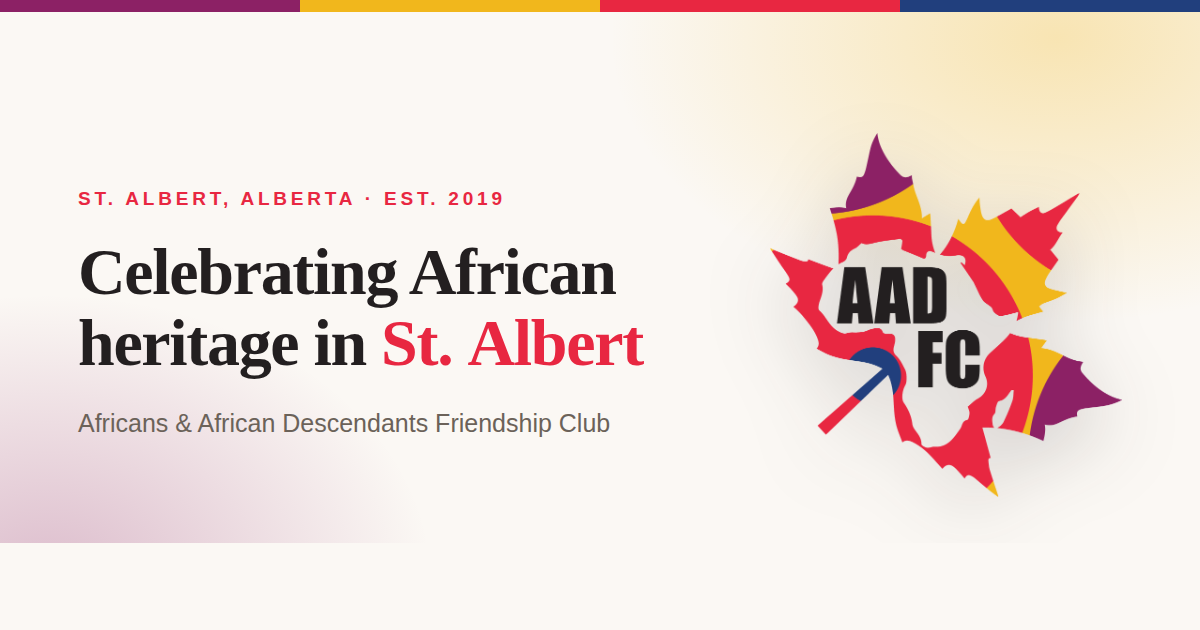
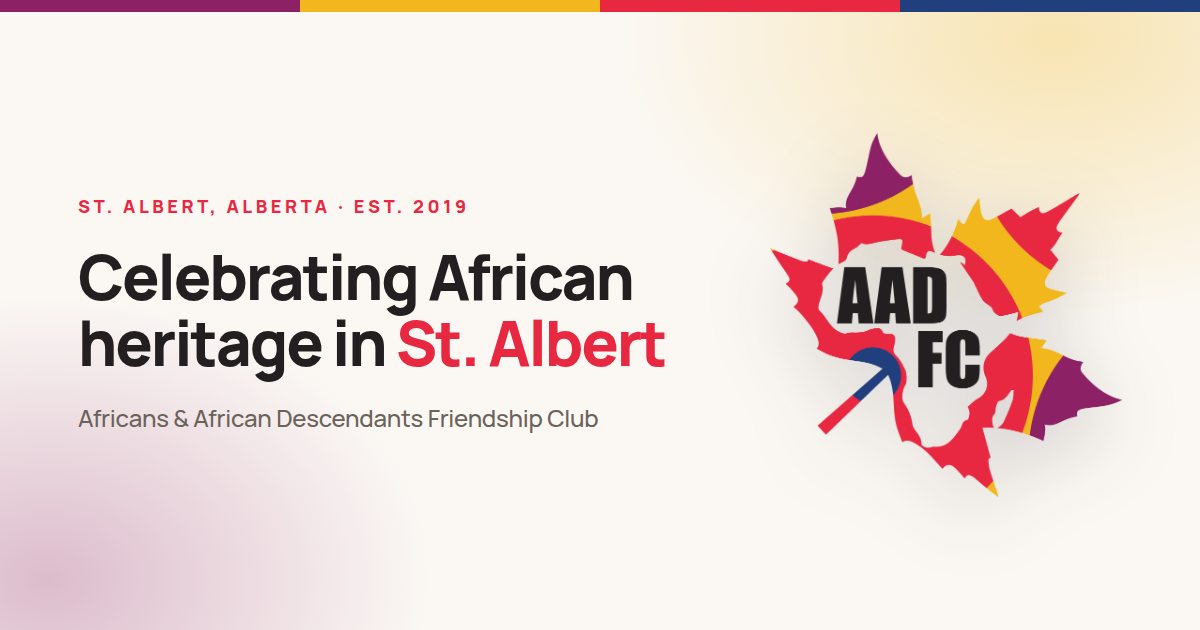
Switch typography to Manrope
Replaces the Fraunces/Inter pairing with Manrope as a single variable family
(weights 200-800), loaded from Google Fonts.

With one family carrying the whole site, hierarchy moves into weight and
tracking: headings at 800 / -0.032em, smaller headings at 700 / -0.018em,
body at 400, labels at 700 uppercase. Display numerals, the wordmark, event
dates and the pull quote all step up to 800 to hold their weight against the
body text.

Two things needed retuning for Manrope's metrics: the hero highlight band,
which sat below the baseline and read as a detached underline, and the pull
quote's opening quotation mark, which was sized for a serif.

Regenerates the social card with the real font. Headings also pick up
text-wrap: balance.

Claude-Session: https://claude.ai/code/session_014VnNz6GpzJ38GCX5f3sFy1

diff --git a/css/style.css b/css/style.css
@@ -25,8 +25,8 @@
   --muted-2:    #8A8078;
 
   /* Type */
-  --font-display: "Fraunces", "Iowan Old Style", Georgia, serif;
-  --font-body: "Inter", -apple-system, BlinkMacSystemFont, "Segoe UI", Roboto, sans-serif;
+  --font-display: "Manrope", ui-sans-serif, system-ui, -apple-system, "Segoe UI", Roboto, sans-serif;
+  --font-body: "Manrope", ui-sans-serif, system-ui, -apple-system, "Segoe UI", Roboto, sans-serif;
 
   /* Space + shape */
   --radius: 14px;
@@ -46,8 +46,10 @@ html { -webkit-text-size-adjust: 100%; scroll-behavior: smooth; scroll-padding-t
 body {
   margin: 0;
   font-family: var(--font-body);
+  font-optical-sizing: auto;
   font-size: 17px;
-  line-height: 1.65;
+  font-weight: 400;
+  line-height: 1.62;
   color: var(--ink);
   background: var(--paper);
   -webkit-font-smoothing: antialiased;
@@ -58,17 +60,20 @@ img, svg { max-width: 100%; display: block; }
 a { color: inherit; }
 h1, h2, h3, h4 {
   font-family: var(--font-display);
-  font-weight: 600;
-  line-height: 1.14;
-  letter-spacing: -.015em;
+  font-optical-sizing: auto;
+  font-weight: 800;
+  line-height: 1.11;
+  letter-spacing: -.032em;
   margin: 0 0 .5em;
-  font-variation-settings: "SOFT" 0, "WONK" 0;
+  text-wrap: balance;
 }
+/* Smaller headings sit closer to the body, so ease the weight and tracking. */
+h3, h4 { font-weight: 700; line-height: 1.24; letter-spacing: -.018em; }
 p { margin: 0 0 1.15em; }
 p:last-child { margin-bottom: 0; }
 ul { margin: 0 0 1.15em; padding-left: 1.15em; }
 li { margin-bottom: .4em; }
-strong { font-weight: 650; }
+strong { font-weight: 700; }
 
 ::selection { background: var(--gold); color: var(--ink); }
 
@@ -198,8 +203,8 @@ strong { font-weight: 650; }
 .brand img { width: 44px; height: auto; }
 .brand-text { display: flex; flex-direction: column; line-height: 1.06; }
 .brand-name {
-  font-family: var(--font-display); font-weight: 700; font-size: 21px;
-  letter-spacing: -.02em; color: var(--ink);
+  font-family: var(--font-display); font-weight: 800; font-size: 21px;
+  letter-spacing: -.035em; color: var(--ink);
 }
 .brand-sub {
   font-size: 10.5px; font-weight: 600; letter-spacing: .1em;
@@ -208,7 +213,7 @@ strong { font-weight: 650; }
 
 .nav { display: flex; align-items: center; gap: 4px; }
 .nav a:not(.btn) {
-  font-size: 15px; font-weight: 550; text-decoration: none; color: var(--ink);
+  font-size: 15px; font-weight: 600; text-decoration: none; color: var(--ink);
   padding: 9px 14px; border-radius: 8px; position: relative;
   transition: background-color .18s var(--ease), color .18s var(--ease);
 }
@@ -279,7 +284,7 @@ strong { font-weight: 650; }
 .hero h1 { margin-bottom: 22px; }
 .hero h1 em {
   font-style: normal; color: var(--red);
-  background: linear-gradient(transparent 68%, rgba(241,183,28,.42) 0);
+  background: linear-gradient(transparent 62%, rgba(241,183,28,.45) 0 92%, transparent 0);
 }
 .hero .lede { max-width: 54ch; margin-bottom: 30px; }
 
@@ -324,9 +329,9 @@ strong { font-weight: 650; }
 }
 .stat { background: var(--white); padding: 26px 22px; text-align: center; }
 .stat dt {
-  font-family: var(--font-display); font-weight: 700;
+  font-family: var(--font-display); font-weight: 800;
   font-size: clamp(1.9rem, 3.4vw, 2.5rem); line-height: 1; color: var(--red);
-  letter-spacing: -.02em;
+  letter-spacing: -.035em;
 }
 .stat:nth-child(2) dt { color: var(--gold); }
 .stat:nth-child(3) dt { color: var(--plum); }
@@ -371,8 +376,8 @@ strong { font-weight: 650; }
 .pillar::before {
   content: attr(data-num);
   position: absolute; top: 26px; right: 28px;
-  font-family: var(--font-display); font-size: 3.1rem; font-weight: 700;
-  line-height: 1; color: var(--paper-2); letter-spacing: -.04em;
+  font-family: var(--font-display); font-size: 3.1rem; font-weight: 800;
+  line-height: 1; color: var(--paper-2); letter-spacing: -.05em;
 }
 
 /* ------------------------------------------------------------ feature --- */
@@ -433,14 +438,14 @@ strong { font-weight: 650; }
   padding: clamp(40px, 5.5vw, 74px); text-align: center; position: relative; overflow: hidden;
 }
 .quote::before {
-  content: "\201C"; position: absolute; top: -26px; left: 34px;
-  font-family: var(--font-display); font-size: 12rem; line-height: 1;
+  content: "\201C"; position: absolute; top: -4px; left: 34px;
+  font-family: var(--font-display); font-weight: 800; font-size: 9rem; line-height: 1;
   color: rgba(241,183,28,.16);
 }
 .quote blockquote {
-  margin: 0; font-family: var(--font-display); font-weight: 500;
-  font-size: clamp(1.35rem, 2.9vw, 2.05rem); line-height: 1.35;
-  letter-spacing: -.015em; max-width: 22ch; margin-inline: auto;
+  margin: 0; font-family: var(--font-display); font-weight: 700;
+  font-size: clamp(1.35rem, 2.9vw, 2.05rem); line-height: 1.32;
+  letter-spacing: -.03em; max-width: 22ch; margin-inline: auto;
 }
 .quote blockquote.is-wide { max-width: 30ch; }
 .quote figcaption {
@@ -466,8 +471,8 @@ strong { font-weight: 650; }
   text-transform: uppercase; color: var(--red);
 }
 .event-date .d {
-  display: block; font-family: var(--font-display); font-weight: 700;
-  font-size: 2.3rem; line-height: 1.05; letter-spacing: -.03em;
+  display: block; font-family: var(--font-display); font-weight: 800;
+  font-size: 2.3rem; line-height: 1.05; letter-spacing: -.04em;
 }
 .event-date .y { display: block; font-size: 12.5px; color: var(--muted-2); font-weight: 600; }
 .event h3 { font-size: 1.2rem; margin-bottom: 6px; }
@@ -514,7 +519,7 @@ strong { font-weight: 650; }
 .person .avatar {
   width: 72px; height: 72px; border-radius: 50%; margin: 0 auto 16px;
   display: grid; place-items: center;
-  font-family: var(--font-display); font-weight: 700; font-size: 1.5rem; color: #fff;
+  font-family: var(--font-display); font-weight: 800; font-size: 1.5rem; letter-spacing: -.02em; color: #fff;
   background: linear-gradient(140deg, var(--red), var(--plum));
 }
 .person:nth-child(2n) .avatar { background: linear-gradient(140deg, var(--gold), var(--red)); }
@@ -590,7 +595,7 @@ strong { font-weight: 650; }
 }
 .field { margin-bottom: 18px; }
 .field label {
-  display: block; font-size: 13.5px; font-weight: 650; margin-bottom: 7px; color: var(--ink);
+  display: block; font-size: 13.5px; font-weight: 700; margin-bottom: 7px; color: var(--ink);
 }
 .field label .req { color: var(--red); }
 .field input, .field select, .field textarea {

diff --git a/index.html b/index.html
@@ -23,7 +23,7 @@
 
 <link rel="preconnect" href="https://fonts.googleapis.com">
 <link rel="preconnect" href="https://fonts.gstatic.com" crossorigin>
-<link rel="stylesheet" href="https://fonts.googleapis.com/css2?family=Fraunces:opsz,wght@9..144,400;9..144,500;9..144,600;9..144,700&family=Inter:wght@400;500;600;700&display=swap">
+<link href="https://fonts.googleapis.com/css2?family=Manrope:wght@200..800&display=swap" rel="stylesheet">
 <link rel="stylesheet" href="css/style.css">
 <script>document.documentElement.classList.add('js');</script>
 <script type="application/ld+json">

diff --git a/404.html b/404.html
@@ -23,7 +23,7 @@
 
 <link rel="preconnect" href="https://fonts.googleapis.com">
 <link rel="preconnect" href="https://fonts.gstatic.com" crossorigin>
-<link rel="stylesheet" href="https://fonts.googleapis.com/css2?family=Fraunces:opsz,wght@9..144,400;9..144,500;9..144,600;9..144,700&family=Inter:wght@400;500;600;700&display=swap">
+<link href="https://fonts.googleapis.com/css2?family=Manrope:wght@200..800&display=swap" rel="stylesheet">
 <link rel="stylesheet" href="css/style.css">
 <script>document.documentElement.classList.add('js');</script>
 </head>

diff --git a/about.html b/about.html
@@ -23,7 +23,7 @@
 
 <link rel="preconnect" href="https://fonts.googleapis.com">
 <link rel="preconnect" href="https://fonts.gstatic.com" crossorigin>
-<link rel="stylesheet" href="https://fonts.googleapis.com/css2?family=Fraunces:opsz,wght@9..144,400;9..144,500;9..144,600;9..144,700&family=Inter:wght@400;500;600;700&display=swap">
+<link href="https://fonts.googleapis.com/css2?family=Manrope:wght@200..800&display=swap" rel="stylesheet">
 <link rel="stylesheet" href="css/style.css">
 <script>document.documentElement.classList.add('js');</script>
 </head>

diff --git a/contact.html b/contact.html
@@ -23,7 +23,7 @@
 
 <link rel="preconnect" href="https://fonts.googleapis.com">
 <link rel="preconnect" href="https://fonts.gstatic.com" crossorigin>
-<link rel="stylesheet" href="https://fonts.googleapis.com/css2?family=Fraunces:opsz,wght@9..144,400;9..144,500;9..144,600;9..144,700&family=Inter:wght@400;500;600;700&display=swap">
+<link href="https://fonts.googleapis.com/css2?family=Manrope:wght@200..800&display=swap" rel="stylesheet">
 <link rel="stylesheet" href="css/style.css">
 <script>document.documentElement.classList.add('js');</script>
 </head>

diff --git a/donate.html b/donate.html
@@ -23,7 +23,7 @@
 
 <link rel="preconnect" href="https://fonts.googleapis.com">
 <link rel="preconnect" href="https://fonts.gstatic.com" crossorigin>
-<link rel="stylesheet" href="https://fonts.googleapis.com/css2?family=Fraunces:opsz,wght@9..144,400;9..144,500;9..144,600;9..144,700&family=Inter:wght@400;500;600;700&display=swap">
+<link href="https://fonts.googleapis.com/css2?family=Manrope:wght@200..800&display=swap" rel="stylesheet">
 <link rel="stylesheet" href="css/style.css">
 <script>document.documentElement.classList.add('js');</script>
 </head>

diff --git a/events.html b/events.html
@@ -23,7 +23,7 @@
 
 <link rel="preconnect" href="https://fonts.googleapis.com">
 <link rel="preconnect" href="https://fonts.gstatic.com" crossorigin>
-<link rel="stylesheet" href="https://fonts.googleapis.com/css2?family=Fraunces:opsz,wght@9..144,400;9..144,500;9..144,600;9..144,700&family=Inter:wght@400;500;600;700&display=swap">
+<link href="https://fonts.googleapis.com/css2?family=Manrope:wght@200..800&display=swap" rel="stylesheet">
 <link rel="stylesheet" href="css/style.css">
 <script>document.documentElement.classList.add('js');</script>
 </head>

diff --git a/media.html b/media.html
@@ -23,7 +23,7 @@
 
 <link rel="preconnect" href="https://fonts.googleapis.com">
 <link rel="preconnect" href="https://fonts.gstatic.com" crossorigin>
-<link rel="stylesheet" href="https://fonts.googleapis.com/css2?family=Fraunces:opsz,wght@9..144,400;9..144,500;9..144,600;9..144,700&family=Inter:wght@400;500;600;700&display=swap">
+<link href="https://fonts.googleapis.com/css2?family=Manrope:wght@200..800&display=swap" rel="stylesheet">
 <link rel="stylesheet" href="css/style.css">
 <script>document.documentElement.classList.add('js');</script>
 </head>

diff --git a/programs.html b/programs.html
@@ -23,7 +23,7 @@
 
 <link rel="preconnect" href="https://fonts.googleapis.com">
 <link rel="preconnect" href="https://fonts.gstatic.com" crossorigin>
-<link rel="stylesheet" href="https://fonts.googleapis.com/css2?family=Fraunces:opsz,wght@9..144,400;9..144,500;9..144,600;9..144,700&family=Inter:wght@400;500;600;700&display=swap">
+<link href="https://fonts.googleapis.com/css2?family=Manrope:wght@200..800&display=swap" rel="stylesheet">
 <link rel="stylesheet" href="css/style.css">
 <script>document.documentElement.classList.add('js');</script>
 </head>

diff --git a/README.md b/README.md
@@ -40,9 +40,11 @@ Colours are sampled directly from the club logo:
 | `--navy` | `#213F7D` | Dark accents |
 | `--ink` | `#231F20` | Body text, footer |
 
-Type is [Fraunces](https://fonts.google.com/specimen/Fraunces) for headings and
-[Inter](https://fonts.google.com/specimen/Inter) for body copy, loaded from
-Google Fonts with system fallbacks.
+Type is [Manrope](https://fonts.google.com/specimen/Manrope) throughout, loaded
+as a variable font (weights 200-800) from Google Fonts with a system-sans
+fallback. Hierarchy comes from weight and tracking rather than a second family:
+headings sit at 800 with -0.032em tracking, smaller headings at 700, body copy
+at 400, and uppercase labels at 700 with +0.16em.
 
 `assets/img/logo.png` is the full-colour logo; `logo-light.png` is the same mark
 with the wordmark in white, for use on dark backgrounds (it is what the footer
